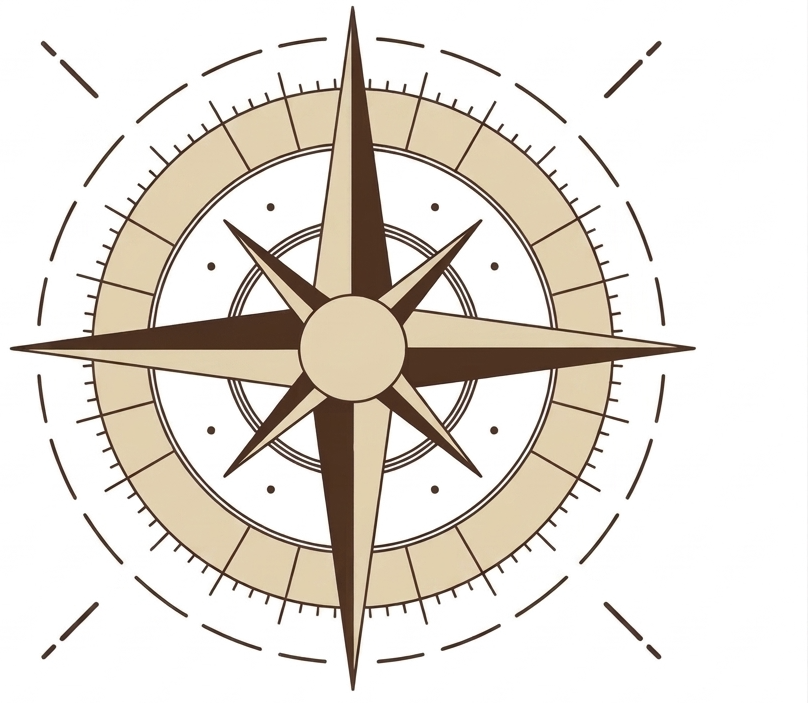
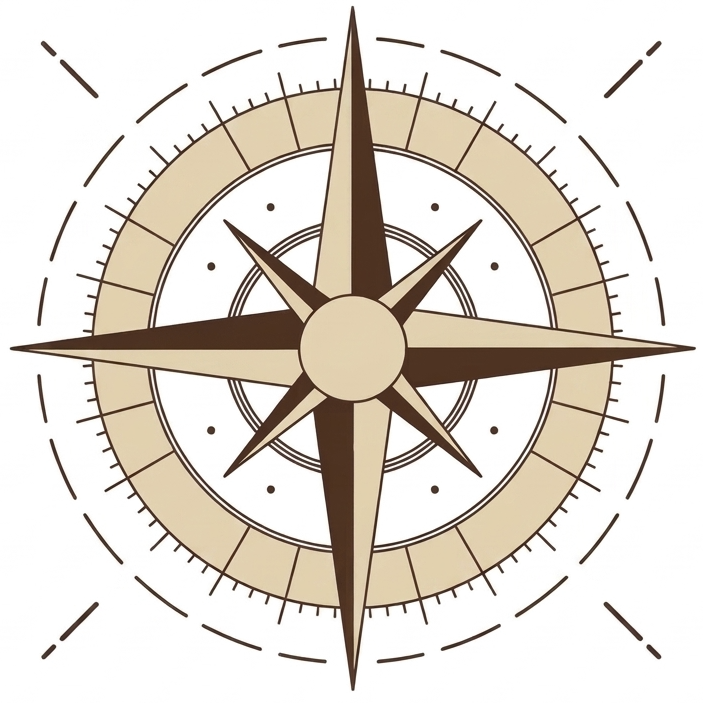
feature hightlight

diff --git a/README.md b/README.md
@@ -4,44 +4,6 @@
 
 <h1 align="center"><strong>Compass 1: Towards Open-World and Persistent Embodied Navigation from Monocular RGB Videos</strong></h1>
 
-<p align="center">
-  <a href="https://betray12138.github.io/resume/" target="_blank">Hai Zhang</a><sup>1,*</sup>&emsp;
-  <a href="https://github.com/stdcat" target="_blank">Siqi Liang</a><sup>1,*</sup>&emsp;
-  Yanjun Guo<sup>1</sup>&emsp;
-  Shoufeng Zhang<sup>1</sup>&emsp;
-  Yunhao Wang<sup>1</sup>&emsp;
-  <br>
-  Hangyu Du<sup>1</sup>&emsp;
-  Haoguang Mai<sup>1</sup>&emsp;
-  Hongchen Li<sup>2</sup>&emsp;
-  Jiazhi Yang<sup>3</sup>&emsp;
-  Jialong Zeng<sup>3</sup>&emsp;
-  <br>
-  Yu Hu<sup>4</sup>&emsp;
-  Chen Chen<sup>5</sup>&emsp;
-  Gangcheng Jiang<sup>3</sup>&emsp;
-  Zishun Zhuo<sup>1</sup>&emsp;
-  Lirui Zhao<sup>3</sup>&emsp;
-  <br>
-  Zhigang Li<sup>5</sup>&emsp;
-  Yu Qiao<sup>2</sup>&emsp;
-  <a href="https://scholar.google.com/citations?user=jVlRiUEAAAAJ&hl" target="_blank">Zhenjie Yang</a><sup>1,3,†</sup>&emsp;
-  <a href="https://mars.hku.hk/people.html" target="_blank">Fu Zhang</a><sup>1,4,†</sup>&emsp;
-  <a href="https://lihongyang.info/" target="_blank">Hongyang Li</a><sup>3</sup>
-  <br><br>
-  <a href="https://hku.hk/" target="_blank"><img src="asset/HKU_logo.png" alt="The University of Hong Kong" height="40"></a>
-  <br>
-  <sup>1</sup>The University of Hong Kong&emsp;
-  <sup>2</sup>Shanghai Innovation Institute&emsp;
-  <sup>3</sup>Archon Robotics
-  <br>
-  <sup>4</sup>Spatial Robotics&emsp;
-  <sup>5</sup>Huawei Inc.
-  <br><br>
-  <sup>*</sup>Equal contribution&emsp;
-  <sup>†</sup>Equal advising
-</p>
-
 <div id="top" align="center">
 
 <div>
@@ -60,7 +22,7 @@
 
 We present **Compass 1**, the first embodied navigation foundation model to unify language understanding and video generation while enabling memory backtracking through nearly **two minutes** of visual history. Compass 1 achieves a dominant overall success rate of **79.4%** across open-world evaluations, compared to **17.8%** for the strongest baseline.
 
-**Developers**: [Hai Zhang](https://zhanghenryhai12138.github.io/) and [Siqi Liang](https://github.com/stdcat)
+**Developers**: [Hai Zhang](https://betray12138.github.io/resume/) and [Siqi Liang](https://github.com/stdcat)
 
 ## 📢 News
 
